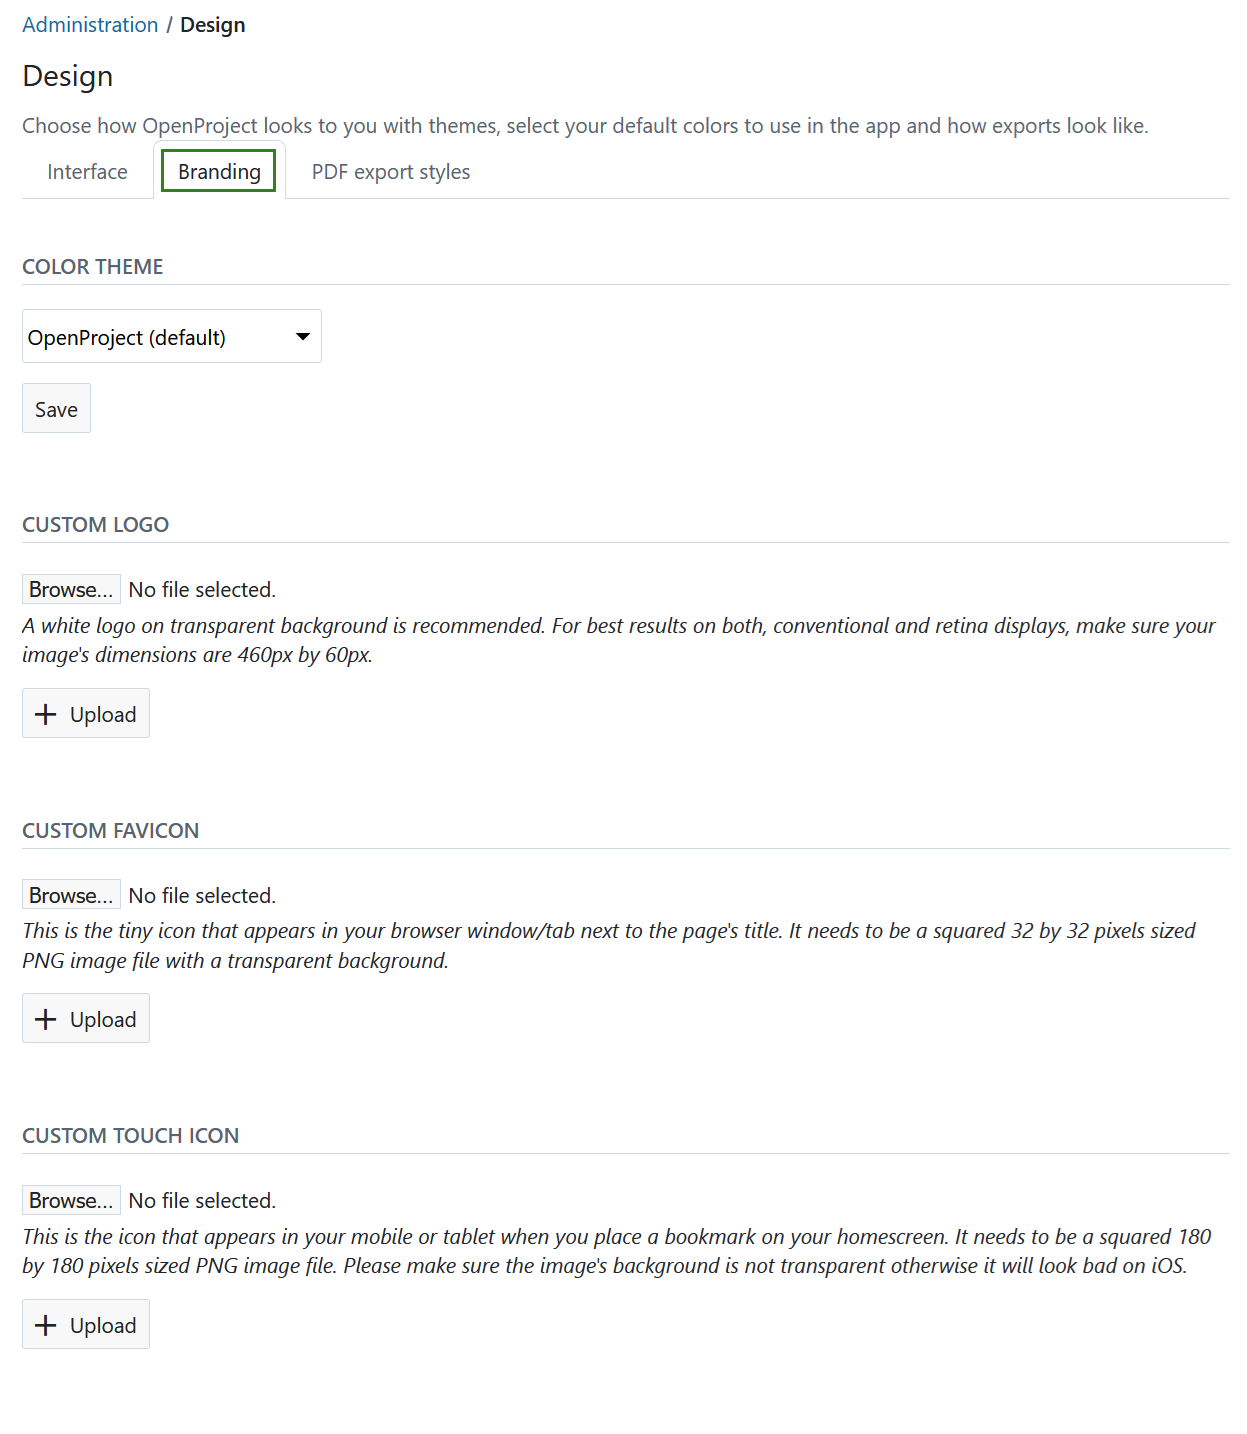
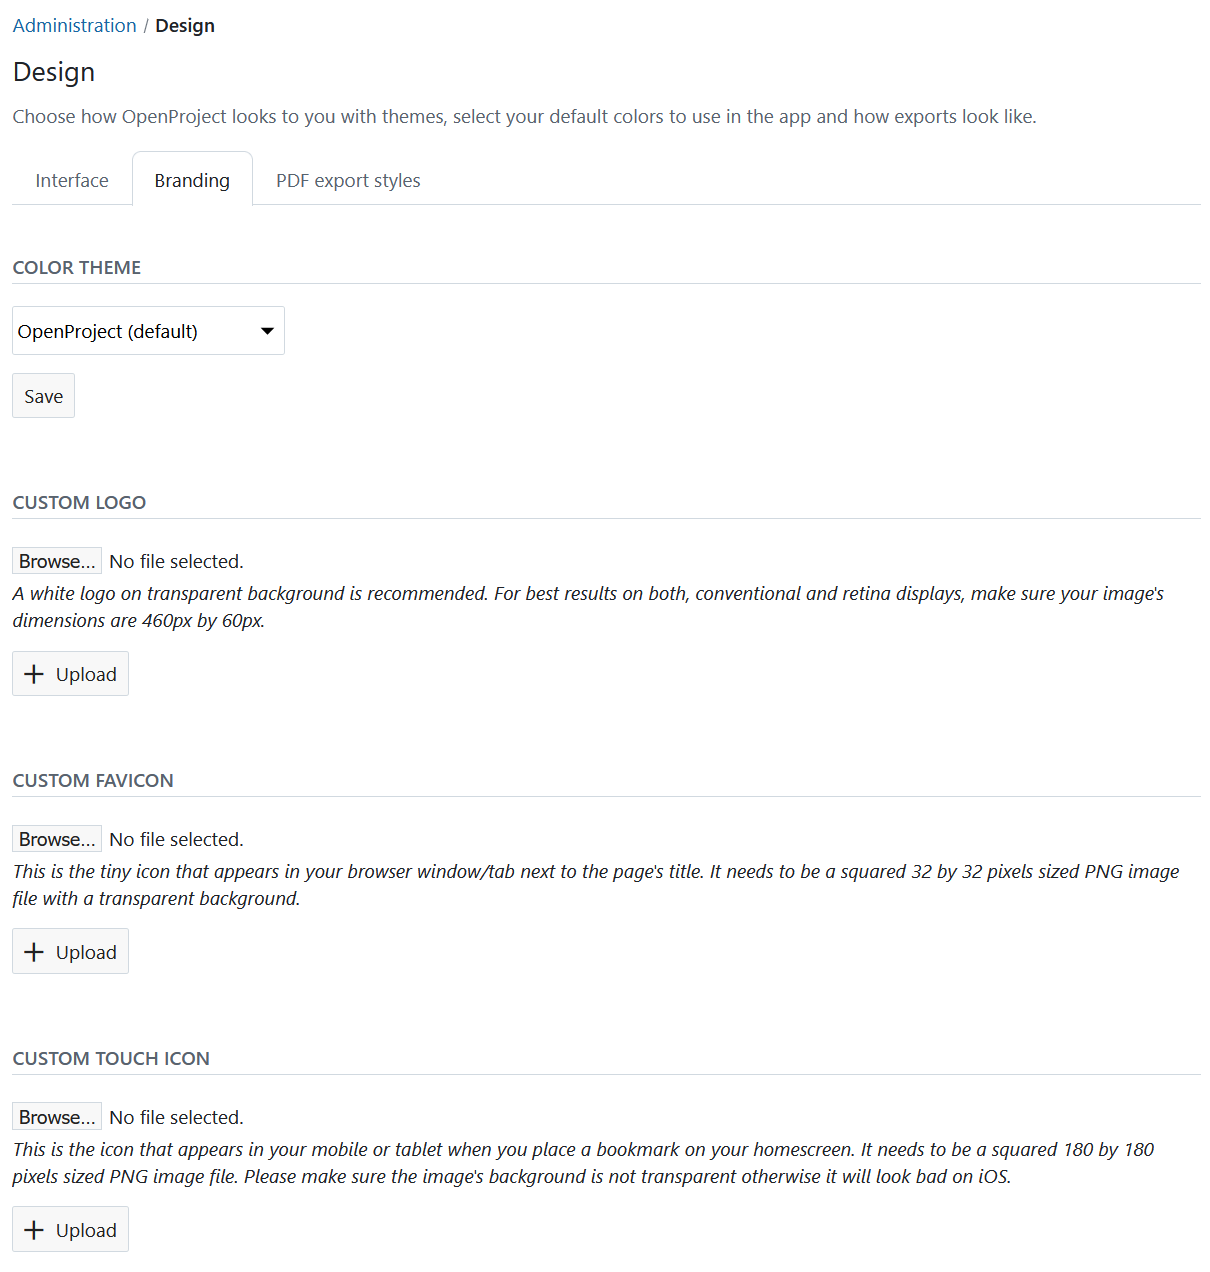
[#58115] 14.6 Documentation: Split content of Admin/Design page into separate tabs  https://community.openproject.org/work_packages/58115
[#58115] 14.6 Documentation: Split content of Admin/Design page into separate tabs

https://community.openproject.org/work_packages/58115

Changed region(s): [[0.0, 0.0, 0.9785, 0.7972], [0.0, 0.8278, 0.9785, 0.9811], [0.214, 0.2146, 0.2446, 0.2453]]

diff --git a/docs/system-admin-guide/design/README.md b/docs/system-admin-guide/design/README.md
@@ -15,29 +15,27 @@ The design page provides several options to customize your OpenProject Enterpris
 
 Under **Interface** you can also set [the interface colors](#interface-colors) to configure **custom colors** to adjust nearly any aspect of OpenProject, such  as the color of the header and side menu, the link color and the hover color.
 
-UPDATE SCREENSHOT
+![Design interface settings in OpenProject adminstration](openproject_system_guide_design_interface.png)
 
 Under the **Branding** tab you can also [upload a custom logo](#upload-a-custom-logo) to replace the default OpenProject logo, [set a custom favicon](#set-a-custom-favicon), which is shown as an icon in your browser window/tab, and [upload a custom touch icon](#set-a-custom-touch-icon), which is shown on your smartphone or tablet when you bookmark OpenProject on your home screen.
 
- UPDATE SCREENSHOT
+![Branding settings in OpenProject administration](openproject_system_guide_design_branding.png)
 
 Under **PDF export settings** you can set the preferences for [exporting work packages in a PDF format](../../user-guide/work-packages/exporting/#pdf-export).
 
-UPDATE SCREENSHOT
-
-
+![PDF export styles settings in OpenProject administration](openproject_system_guide_design_pdf_export_styles.png)
 
 ## Choose a color theme
 
 You can choose between the three default color themes for OpenProject:
 
 * OpenProject
-* OpenProject Light
-* OpenProject Dark
+* OpenProject Gray (earlier called OpenProject Light)
+* OpenProject Navy Blue (earlier called OpenProject Dark)
 
 Press the Save button to apply your changes. The theme will then be changed.
 
-![System-admin-guide_color-theme](System-admin-guide_color-theme.png)
+![Change color theme in OpenProject administration settings](openproject_system_guide_design_color_theme_navy_blue.png)
 
 ## Upload a custom logo
 
@@ -45,9 +43,11 @@ To replace the default OpenProject logo with your own logo, make sure that your 
 
 Click the *Upload* button to confirm and upload your logo.
 
-![Sys-admin-design-upload-logo](Sys-admin-design-upload-logo.png)
+![Upload custom logo in OpenProject administration settings](openproject_system_guide_design_upload_custom_logo.png)
 
-![upload logo](system_admin_logo_updated.png)
+
+
+![Custom logo updated in OpenProject admistration](openproject_system_guide_design_custom_logo_uploaded.png)
 
 ## Set a custom favicon
 
@@ -55,7 +55,7 @@ To set a custom favicon to be shown in your browser’s tab, make sure  you have
 
 Then click the *Upload* button to confirm and upload your favicon.
 
-![Sys-admin-design-favicon](Sys-admin-design-favicon.png)
+![Custom favicon in OpenProject design settings](openproject_system_guide_design_custom_favicon.png)
 
 ## Set a custom touch icon
 
@@ -69,8 +69,8 @@ When you bookmark your OpenProject environment’s URL, you will see that the up
 
 Aside from uploading logos and icons, you can also customize the colors used within your OpenProject environment.
 
-To do this change the color values (entered as color hex code) in the *Advanced settings* section. In order to find the right hex code for a color, you can use a website, such as [color-hex.com](https://www.color-hex.com/).
- You can see the selected color in the preview area next to the color hex code. Therefore, it is possible to see the selected color before saving the changes.
+To do this change the color values (entered as color hex code) under *Interface* tab. In order to find the right hex code for a color, you can use a website, such as [color-hex.com](https://www.color-hex.com/).
+You can see the selected color in the preview area next to the color hex code. Therefore, it is possible to see the selected color before saving the changes.
 
 > [!TIP]
 > If the button color you select is too light to have white text on top of it, the icon and text color will be displayed in black instead.
